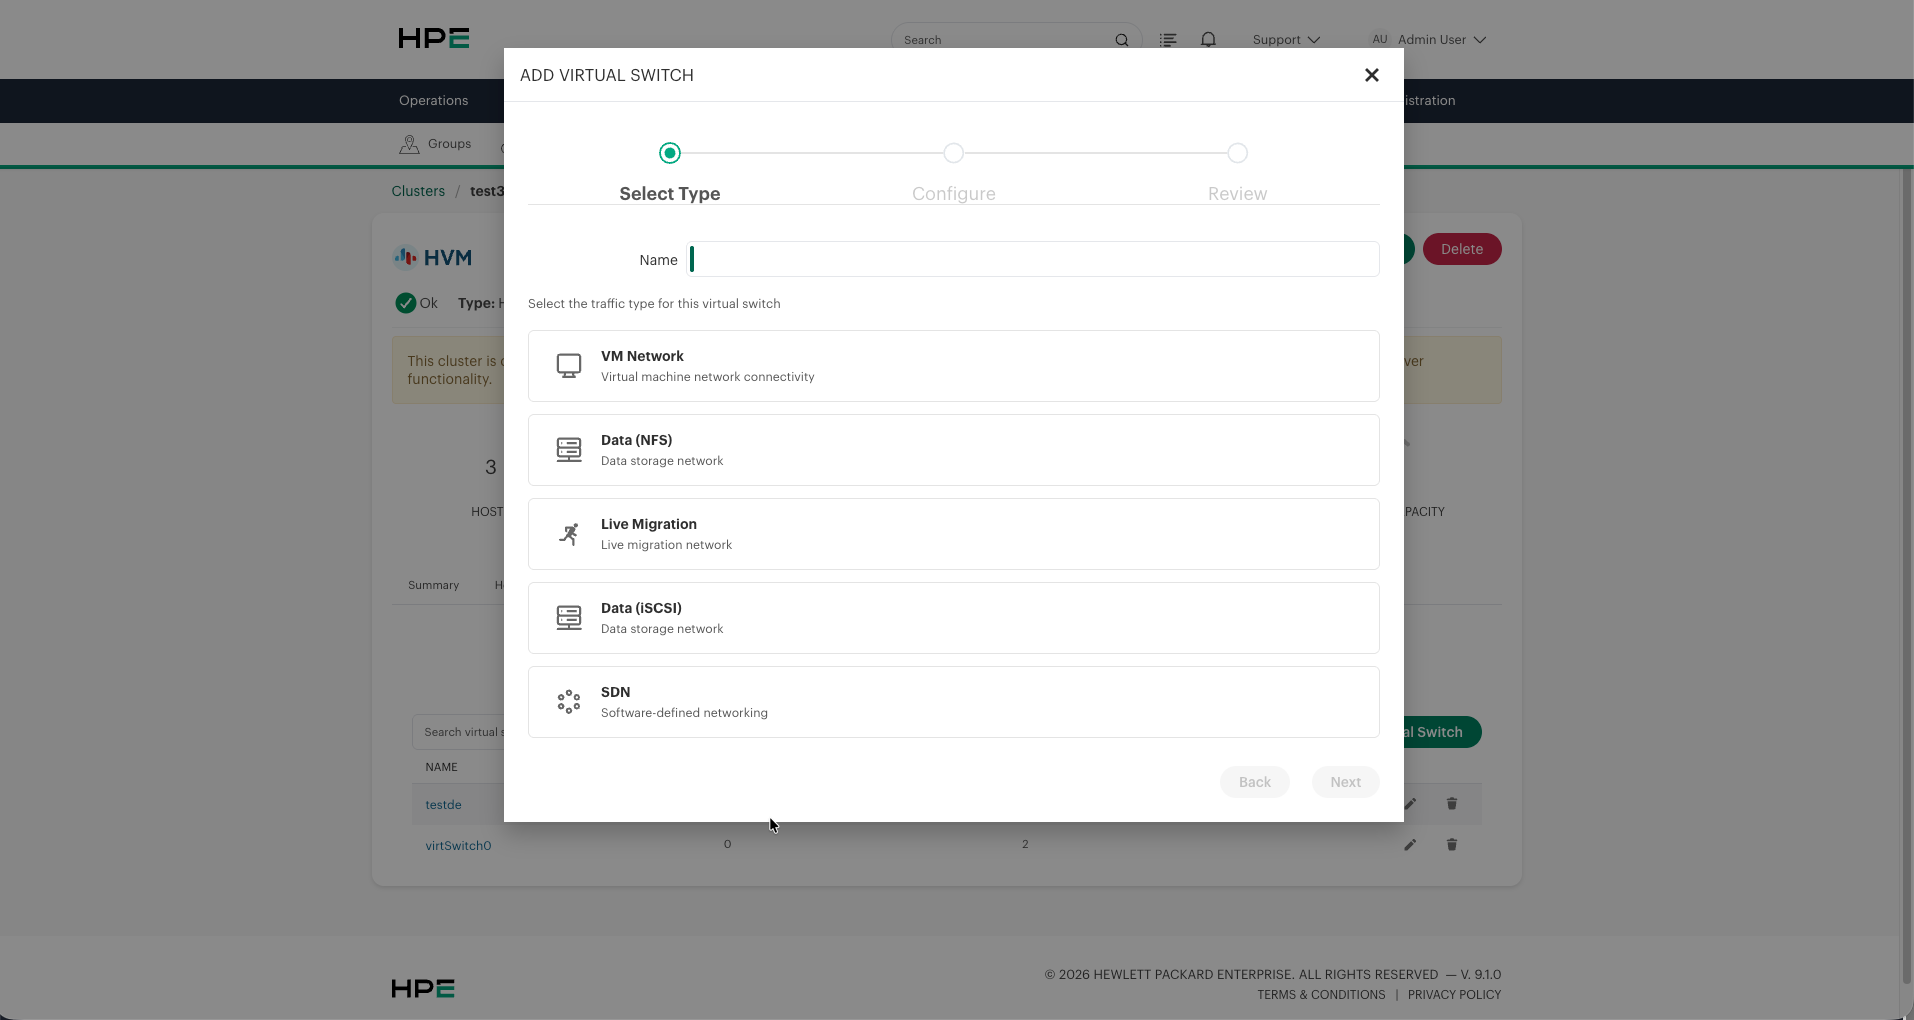
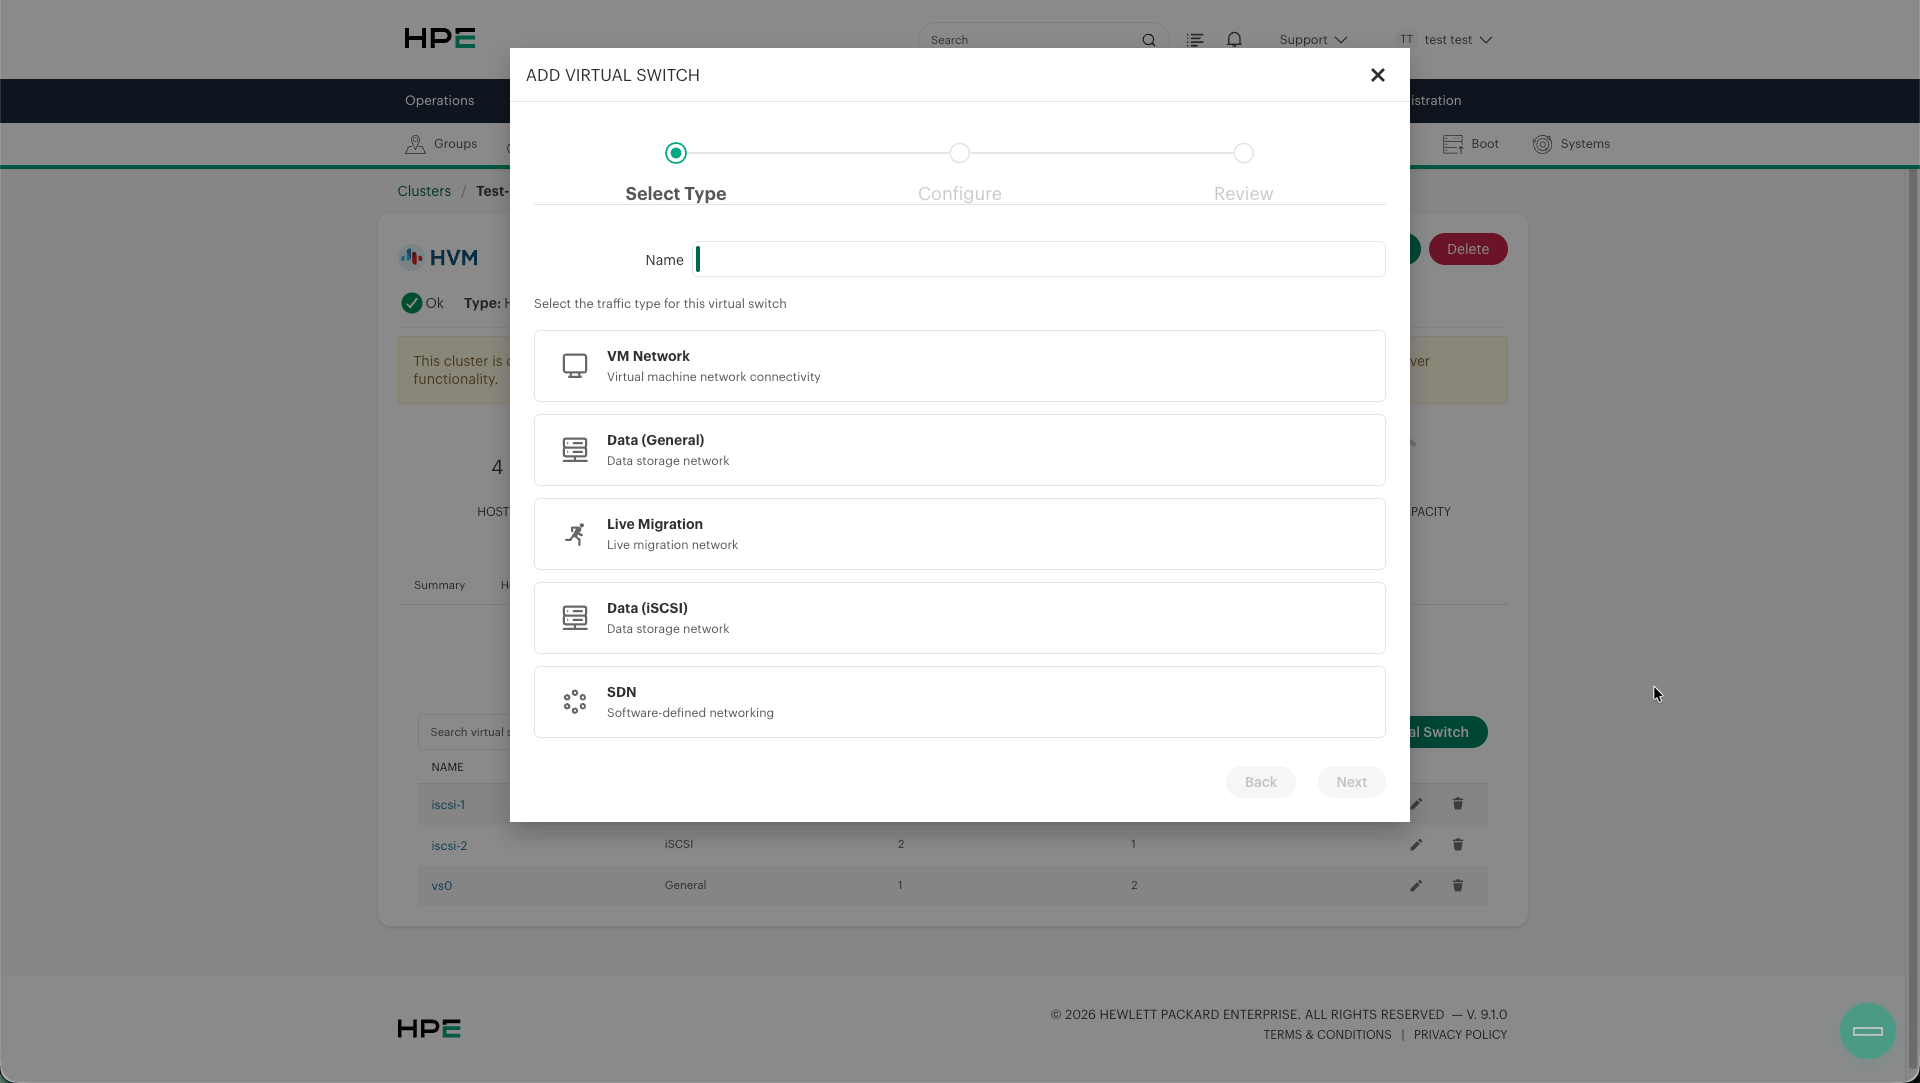
docs: update Virtual Switch documentation
- Rename Data (NFS) to Data (General) throughout
- Document vs0 default behavior (Live Migration and Data traffic on mgmt interface)
- Document gateway metadata behavior (non-management gateways are not configured)
- Add one-Live-Migration-per-cluster constraint
- Add VLAN requirement when adding segments to vs0
- Rename virtSwitch0 to vs0 throughout
- Update screenshots to reflect Data (General) naming

diff --git a/infrastructure/clusters/hvm/virtual_switches.rst b/infrastructure/clusters/hvm/virtual_switches.rst
@@ -16,7 +16,38 @@ Virtual Switches manage:
 - **VLAN handling** — Tagging traffic for network segmentation
 - **IP addressing** — Assigning host-level IPs for storage and migration networks
 
-Each HVM cluster supports up to **8 Virtual Switches**. A default Virtual Switch named ``virtSwitch0`` is created automatically during cluster provisioning and handles VM network traffic.
+Each HVM cluster supports up to **8 Virtual Switches**. A default Virtual Switch named ``vs0`` is created automatically during cluster provisioning and handles VM network traffic.
+
+Default Virtual Switch Behavior (vs0 — General)
+````````````````````````````````````````````````
+
+When a cluster is provisioned, a default Virtual Switch called ``vs0`` (type: **General**) is created on the management interface. Understanding its default behavior is critical before adding additional segments:
+
+**Default traffic on the management interface:**
+
+- **Live Migration** traffic flows over the management interface by default, even if no explicit Live Migration segment has been created. A dedicated Live Migration segment is only required when you want to isolate migration traffic onto a separate VLAN or subnet.
+- **Data storage traffic** (NFS and iSCSI) can also flow over the management interface through ``vs0`` by default. Creating dedicated Data segments is recommended for performance and isolation in production environments.
+
+**Adding segments to vs0:**
+
+When you edit ``vs0`` to add **Data (General)** and/or **Live Migration** segments on the same Virtual Switch as the management interface, VLAN tagging is required:
+
+- Adding **Data (General)** requires a VLAN tag and a dedicated IP subnet for storage traffic.
+- Adding **Live Migration** requires a VLAN tag and a dedicated IP subnet for migration traffic.
+- If both are added to the same Virtual Switch, each must have its **own VLAN and subnet**.
+
+**Splitting Data and Live Migration onto different networks:**
+
+When both **Data (General)** and **Live Migration** are selected on the same Virtual Switch, a checkbox appears: *"Data (General) and Live Migration are on different networks"*. When enabled:
+
+- Two separate VLAN tags are required (one for Data, one for Live Migration)
+- Two separate IP subnets must be configured
+- This provides full isolation between storage and migration traffic while sharing the same physical uplinks
+
+.. image:: /images/infrastructure/clusters/hvm/virtual_switches/vs_add_split_option.png
+   :alt: Option to put Data (General) and Live Migration on different networks
+
+**Key constraint:** Only **one Live Migration interface** is supported per cluster. If you configure Live Migration on a Virtual Switch, no other Virtual Switch in the same cluster can carry Live Migration traffic.
 
 .. image:: /images/infrastructure/clusters/hvm/virtual_switches/vs_list.png
    :alt: Virtual Switches list view
@@ -52,7 +83,7 @@ The available traffic types are:
    * - **VM Network**
      - Virtual machine network connectivity. Uses a VLAN-aware Linux bridge for VM-to-network communication.
      - Required for VMs to communicate with external networks
-   * - **Data (NFS)**
+   * - **Data (General)**
      - NFS storage network for shared datastores. Supports bonding for redundancy and throughput.
      - Connecting hosts to NFS-based shared storage
    * - **Live Migration**
@@ -82,9 +113,9 @@ Multiple traffic types can be combined on a single Virtual Switch, subject to th
    * - VM Network
      - Yes
      - Yes
-     - Live Migration, Data (NFS)
+     - Live Migration, Data (General)
      - Default Virtual Switch type
-   * - Data (NFS)
+   * - Data (General)
      - Yes
      - Yes
      - VM Network, Live Migration
@@ -92,7 +123,7 @@ Multiple traffic types can be combined on a single Virtual Switch, subject to th
    * - Live Migration
      - Yes
      - Yes
-     - VM Network, Data (NFS)
+     - VM Network, Data (General)
      - Cannot share with iSCSI
    * - Data (iSCSI)
      - **No**
@@ -109,21 +140,21 @@ Multiple traffic types can be combined on a single Virtual Switch, subject to th
 
    - **iSCSI** requires a dedicated Virtual Switch with a single NIC per host. Bonding is not supported because redundancy is provided by iSCSI multipath at the protocol level.
    - **SDN** requires its own dedicated Virtual Switch and cannot coexist with other traffic types.
-   - **Data (NFS) and Live Migration** can optionally be split onto different networks (separate IP ranges) even when on the same Virtual Switch.
+   - **Data (General) and Live Migration** can optionally be split onto different networks (separate IP ranges) even when on the same Virtual Switch.
 
 Combining Traffic Types
 ~~~~~~~~~~~~~~~~~~~~~~~
 
 You can select multiple traffic types for a single Virtual Switch. When combining types, the wizard adapts:
 
-- Selecting **VM Network + Data (NFS) + Live Migration** enables a 5-step wizard (Select Type → Configure → IPv4 Settings → Port Settings → Review).
-- When both **Data (NFS)** and **Live Migration** are selected, a checkbox appears: *"Data (NFS) and Live Migration are on different networks"*. Enabling this allows you to assign separate IP ranges to each traffic type.
+- Selecting **VM Network + Data (General) + Live Migration** enables a 5-step wizard (Select Type → Configure → IPv4 Settings → Port Settings → Review).
+- When both **Data (General)** and **Live Migration** are selected, a checkbox appears: *"Data (General) and Live Migration are on different networks"*. Enabling this allows you to assign separate IP ranges to each traffic type.
 
 .. image:: /images/infrastructure/clusters/hvm/virtual_switches/vs_add_multi_type.png
    :alt: Multiple traffic types selected with checkmarks
 
 .. image:: /images/infrastructure/clusters/hvm/virtual_switches/vs_add_split_option.png
-   :alt: Option to put Data (NFS) and Live Migration on different networks
+   :alt: Option to put Data (General) and Live Migration on different networks
 
 Virtual Switch Prerequisites
 ````````````````````````````
@@ -152,7 +183,7 @@ Step 1: Select Type
 
 .. note:: The Virtual Switch name is limited to 12 characters because it is used to derive the underlying Linux bridge name (name + ``-br`` suffix), which must fit within the Linux 15-character interface name limit.
 
-.. tip:: The default ``virtSwitch0`` created during cluster provisioning can be renamed and edited, but it should not be deleted unless an alternative VM Network Virtual Switch is in place. At least one Virtual Switch with the VM Network traffic type must exist for VMs to have network connectivity.
+.. tip:: The default ``vs0`` created during cluster provisioning can be renamed and edited, but it should not be deleted unless an alternative VM Network Virtual Switch is in place. At least one Virtual Switch with the VM Network traffic type must exist for VMs to have network connectivity.
 
 Step 2: Configure
 ~~~~~~~~~~~~~~~~~
@@ -218,16 +249,18 @@ Step 3: IPv4 Settings
 Configure IP addressing for traffic types that require host-level IPs (Data and Live Migration networks). VM Network traffic does not require host IPs since VMs get their own addresses.
 
 .. image:: /images/infrastructure/clusters/hvm/virtual_switches/vs_ipv4_settings.png
-   :alt: IPv4 Settings with Data (NFS) and Live Migration on different networks
+   :alt: IPv4 Settings with Data (General) and Live Migration on different networks
 
 For each traffic type requiring IP configuration:
 
 - **Start IP Address** — The first IP in the range to assign to hosts. Each host in the cluster receives the next sequential IP.
 - **Subnet Mask** — Network subnet mask (e.g., ``255.255.255.0``)
 - **Default Gateway** — Gateway for this traffic network
+
+.. note:: Gateways specified for Data (General), Live Migration, and iSCSI segments are stored as **metadata only** within the Virtual Switch configuration. They are **not** applied to the host routing table. Only the **Management Gateway** (configured during cluster provisioning) is actively used for routing. These gateway values are retained for documentation and future reference purposes.
 - **Auto Apply to Servers** — When enabled, the IP addresses are automatically distributed and applied to all current cluster hosts
 
-When **Data (NFS) and Live Migration are on different networks**, separate IP configuration sections appear for each traffic type, allowing you to place them on different subnets.
+When **Data (General) and Live Migration are on different networks**, separate IP configuration sections appear for each traffic type, allowing you to place them on different subnets.
 
 .. image:: /images/infrastructure/clusters/hvm/virtual_switches/vs_ipv4_single_type.png
    :alt: IPv4 Settings for a single traffic type
@@ -251,7 +284,7 @@ Configure VLAN tagging and MTU settings.
   - **1500** — Standard MTU (default)
   - **9000** — Jumbo frames (recommended for storage and migration networks)
 
-.. tip:: Use jumbo frames (MTU 9000) for Data (NFS), Data (iSCSI), and Live Migration traffic types to improve throughput and reduce CPU overhead. Ensure all network infrastructure (switches, routers) between hosts supports the configured MTU.
+.. tip:: Use jumbo frames (MTU 9000) for Data (General), Data (iSCSI), and Live Migration traffic types to improve throughput and reduce CPU overhead. Ensure all network infrastructure (switches, routers) between hosts supports the configured MTU.
 
 .. image:: /images/infrastructure/clusters/hvm/virtual_switches/vs_port_settings_single.png
    :alt: Port Settings for a single traffic type
@@ -299,7 +332,7 @@ Click the delete icon (trash) next to a Virtual Switch to remove it. A confirmat
 
    - You cannot delete a Virtual Switch that has active VMs or networks attached to it.
    - Deleting a Virtual Switch removes all associated host networking configuration (bridges, bonds, VLANs) from every node in the cluster.
-   - The default ``virtSwitch0`` should not be deleted unless you have an alternative VM network configured.
+   - The default ``vs0`` should not be deleted unless you have an alternative VM network configured.
 
 Virtual Switch Best Practices
 `````````````````````````````
@@ -313,7 +346,7 @@ Network Design
   - 2 NICs (bonded) for VM Network
   - 2 NICs (bonded) for Data/Live Migration
 
-- **If only 2 NICs are available**, you can combine VM Network + Data (NFS) + Live Migration on a single bonded Virtual Switch. Use VLANs to segregate traffic logically.
+- **If only 2 NICs are available**, you can combine VM Network + Data (General) + Live Migration on a single bonded Virtual Switch. Use VLANs to segregate traffic logically.
 
 Bond Mode Selection
 ~~~~~~~~~~~~~~~~~~~
@@ -354,7 +387,7 @@ A single Virtual Switch with a bonded uplink (Active-Backup or LACP) can carry m
    * - VM Network
      - 100
      - Guest VM traffic, tagged on VLAN 100
-   * - Data (NFS)
+   * - Data (General)
      - 200
      - NFS storage traffic to storage array, tagged on VLAN 200
    * - Live Migration
@@ -375,7 +408,7 @@ MTU Recommendations
 ~~~~~~~~~~~~~~~~~~~
 
 - **VM Network**: Standard MTU (1500) is usually sufficient.
-- **Data (NFS)**: Jumbo frames (9000) recommended for throughput.
+- **Data (General)**: Jumbo frames (9000) recommended for throughput.
 - **Data (iSCSI)**: Jumbo frames (9000) recommended for throughput.
 - **Live Migration**: Jumbo frames (9000) recommended to reduce migration time.
 - **SDN**: Match your SDN controller requirements.
@@ -392,6 +425,8 @@ Virtual Switch Limitations
 - **SDN** Virtual Switches cannot share uplinks with other traffic types.
 - Bond mode changes on an active Virtual Switch may cause brief connectivity interruption.
 - All hosts in the cluster must have the selected uplink NIC(s) available. When using **Uniform uplinks**, ensure consistent NIC naming across hosts. When using **Set uplink NICs per host**, each host must have its individually assigned NIC(s) available.
+- Only **one Live Migration interface** is allowed per cluster. You cannot configure Live Migration on multiple Virtual Switches.
+- When adding **Data (General)** or **Live Migration** segments to the management Virtual Switch (``vs0``), VLAN tagging is required for each segment.
 
 Virtual Switch Troubleshooting
 ``````````````````````````````
